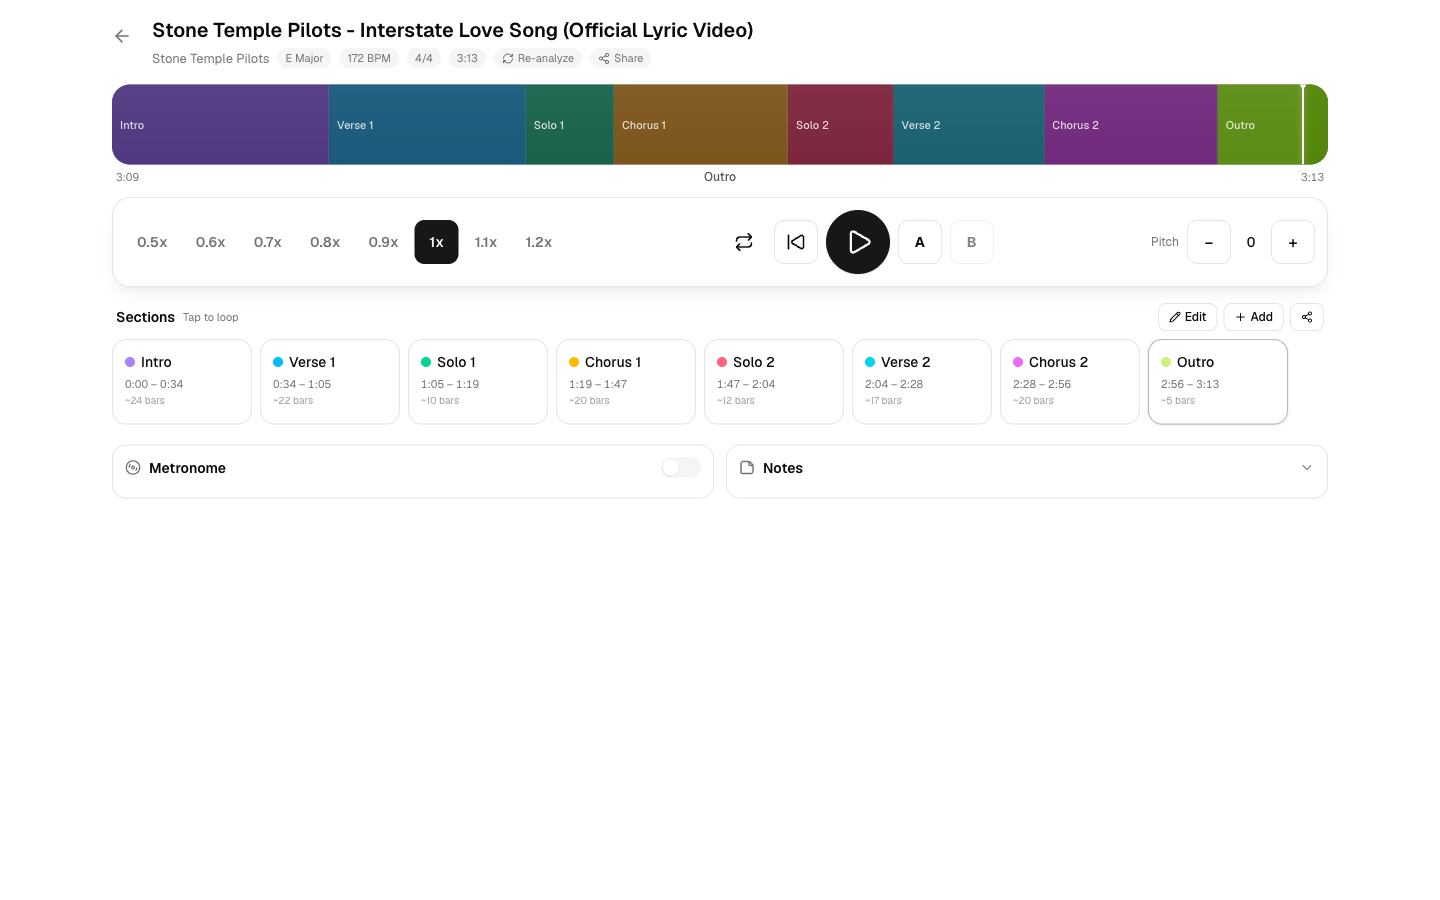
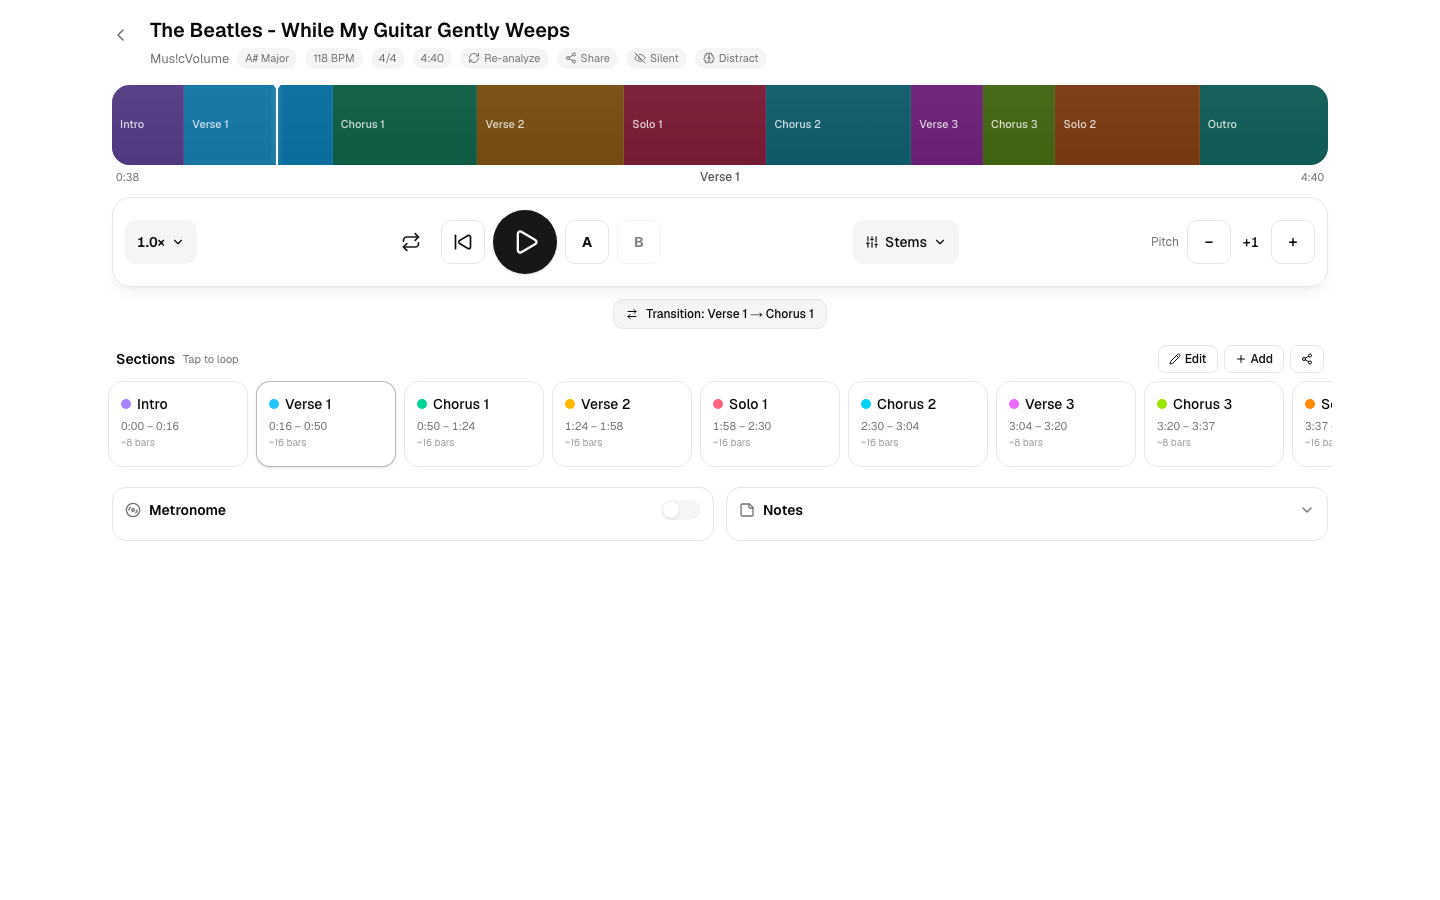
docs(screenshots): refresh Shreddy practice + add stem-mixer and distraction shots
Regenerated the Shreddy practice screenshot to show the current deep-practice transport (tempo dropdown, Stems, Silent/Distract, section-transition pill) — the old shot predated deep-practice v1. Added two new screenshots (stem mixer, active Distraction overlay) referenced in the README. Captured at 1440x900 light theme to match the existing set.

Claude-Session: https://claude.ai/code/session_01LceXPwZhc9pQMtGzJvwZQH

diff --git a/README.md b/README.md
@@ -56,6 +56,14 @@ Drop in any MP3 or paste a YouTube URL. Shreddy auto-detects sections (Intro, Ve
 - Remembers position, tempo, pitch, selected section across reloads
 - Optimized for iPad Safari — full-network mode (`--hostname 0.0.0.0`) for couch practice
 
+Stem mixer — isolate or mute vocals / drums / bass / other:
+
+![Shreddy stem mixer](apps/landing/assets/screenshots/shreddy-stems.png)
+
+Deep practice — a dual-task Distraction overlay layers a read-aloud prompt over the passage:
+
+![Shreddy distraction overlay](apps/landing/assets/screenshots/shreddy-distraction.png)
+
 *Practice stats*
 
 ![Shreddy stats](apps/landing/assets/screenshots/shreddy-stats.png)
